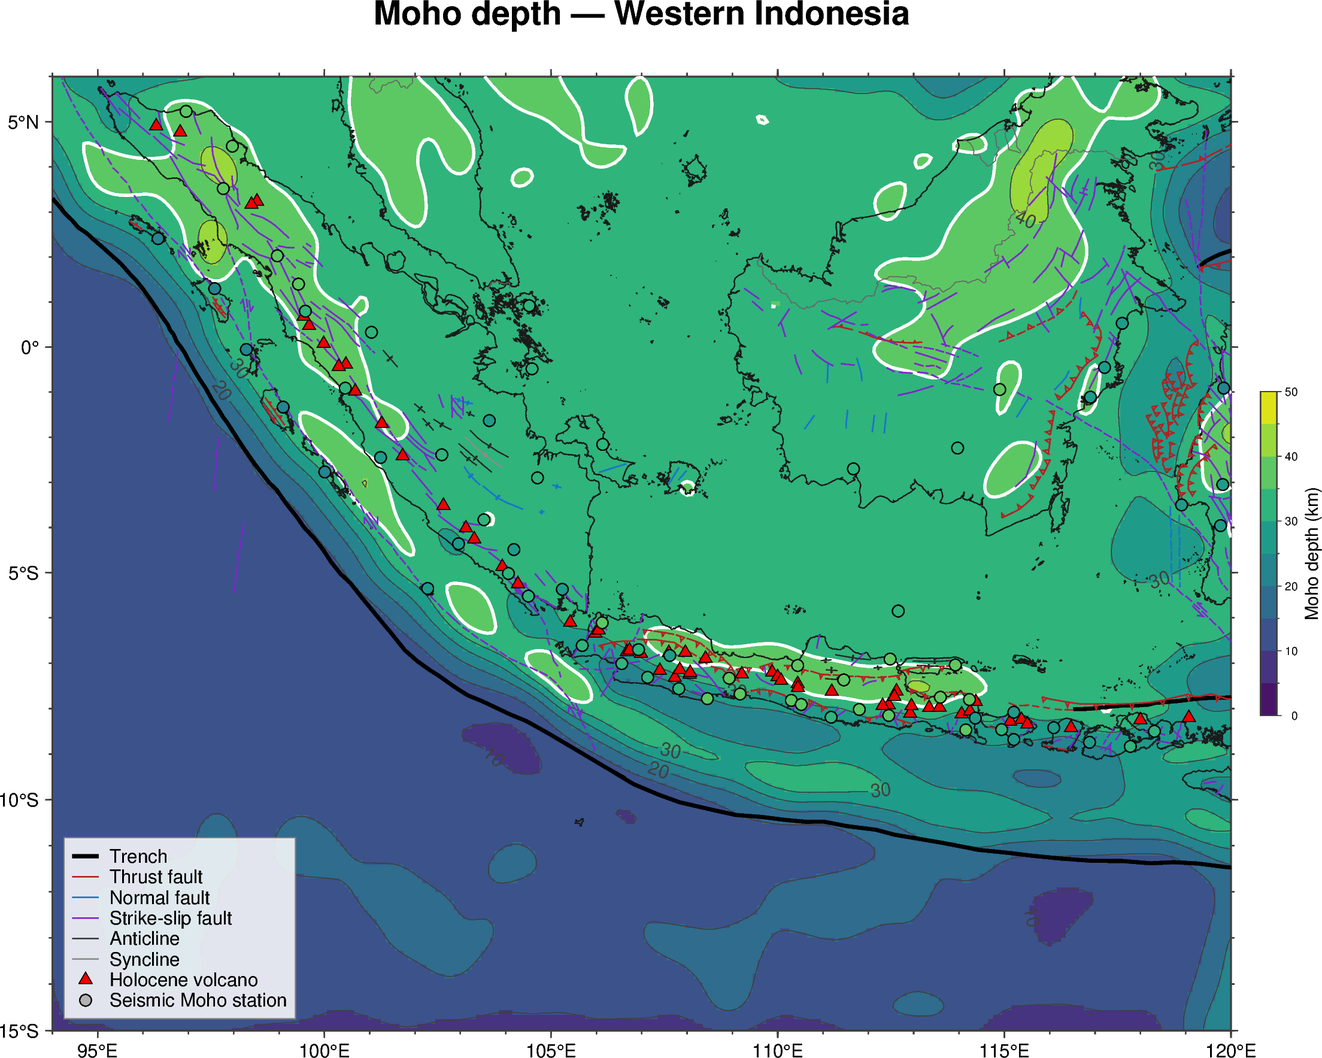
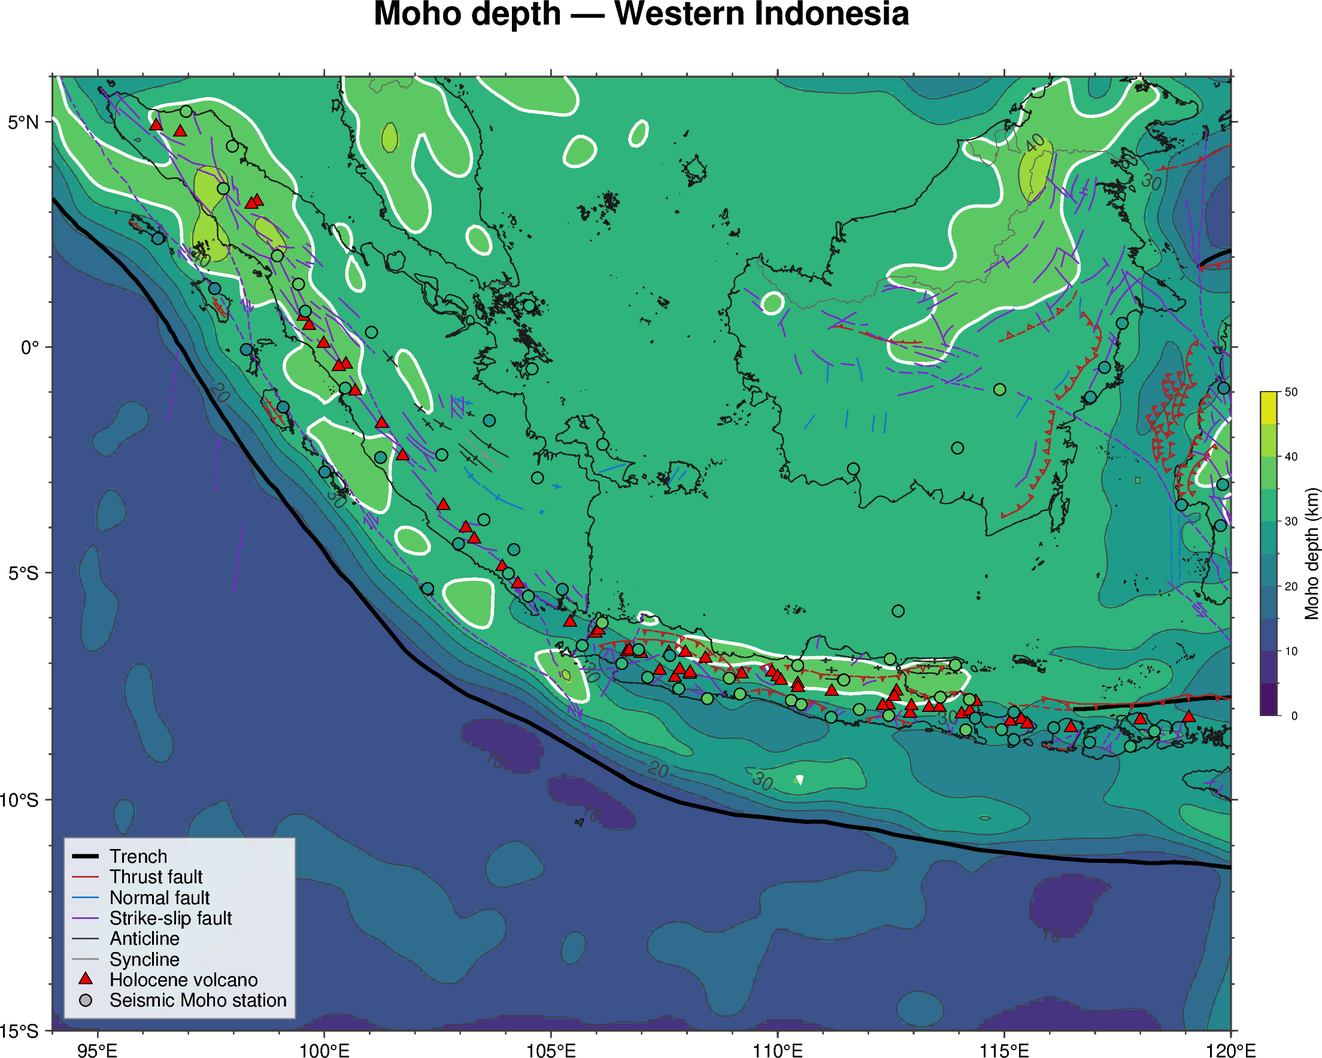
Switch featured model to GOCO06s 0.5deg (satellite-only, matches the text)
Resolution test showed GOCO06s 0.5deg is best AND is what the abstract already
claims. Regenerated the featured model with the GOCO06S satellite disturbance
(calibrate --only-final --gravity ggm) at the physical Delta-rho=400, z_ref=35.
This resolves the latent gravity-source labelling inconsistency (featured model was
altimetry while the text said GOCO06s).

New featured numbers (all figures + GRL/GJI/draft updated):
- vs 105 RF: bias +0.6 -> +0.2 km (best yet); std 6.5 -> 6.2; RMS 6.2; r 0.24 -> 0.28.
- Moho range ~11-59 km (5 cells at the 3 km floor); processing chain now GOCO06s.
- grid-to-grid slope vs CRUST1.0 0.97 (near 1:1); vs GEMMA 1.15.
- AusMoho bias -1.9 km, std 5.0, r 0.87; independent-RF bias -0.8 km.
- z_ref/Delta-rho sensitivity curves recomputed for GOCO06s: identical to altimetry
  (7.7/6.5/6.2/6.9 and 6.2/6.0/5.9/5.8), so the diagnostic + text stay valid.
- Also fixed a stale AusMoho bias (-0.1 -> -1.9) that had slipped through earlier.

Compiles clean: GRL 10 pp (PU 11.4/12), GJI 16 pp, no undefined refs.

diff --git a/manuscript/moho-indonesia-grl.tex b/manuscript/moho-indonesia-grl.tex
@@ -39,7 +39,7 @@ Mada, Yogyakarta 55281, Indonesia}
 \begin{keypoints}
 \item First regionally calibrated, continuous satellite-gravity Moho for the whole
 Indonesian archipelago, from a fast spherical inversion
-\item Fits 105 receiver-function depths to 6.5~km, confirmed out-of-sample by
+\item Fits 105 receiver-function depths to 6.2~km, confirmed out-of-sample by
 cross-validation; absolute level tied to the seismic AusMoho model
 \item Matches CRUST1.0 at the stations while GOCE-only GEMMA is $\sim$7~km too
 shallow, quantifying why global models are inadequate here
@@ -51,11 +51,11 @@ an active region's crust, yet across the Indonesian archipelago it is known only
 from sparse seismic stations. We estimate it from satellite gravity using the
 fast spherical inversion of Uieda and Barbosa (2017), which inverts the anomalous
 Moho with Bott's method under Tikhonov regularisation. We calibrate it against 105
-receiver-function depths. The model fits the seismic Moho to $+0.6\pm6.5$~km,
+receiver-function depths. The model fits the seismic Moho to $+0.2\pm6.2$~km,
 confirmed out-of-sample by cross-validation; the point correlation is modest
-($r=0.24$), limited by the narrow depth range and $\sim$67-km gravity resolution.
+($r=0.28$), limited by the narrow depth range and $\sim$67-km gravity resolution.
 Its absolute level is anchored to the independent seismic AusMoho along the
-Australian margin (bias $-1.2$~km). At the stations the model matches CRUST1.0's fit, whereas GOCE-only
+Australian margin (bias $-1.9$~km). At the stations the model matches CRUST1.0's fit, whereas GOCE-only
 GEMMA is 7.4~km too shallow. The Moho thickens beneath the arcs and collision belts
 and thins beneath the marginal basins, tracking the region's tectonics.
 \end{abstract}
@@ -238,13 +238,13 @@ $\pm2$--$3$~km; we adopt $z_{\mathrm{ref}}=35$~km, independently supported by Au
 (below). Bott's iteration converged in 15--20 steps (RMS-misfit change below
 0.15~km).
 
-The preferred model (Figure~\ref{fig:moho}) yields Moho depths of $\sim$11--66~km:
-thick (35--50~km) beneath the Sunda, Sulawesi and Banda arcs and the Papuan
+The preferred model (Figure~\ref{fig:moho}) yields Moho depths of $\sim$11--59~km:
+thick (35--45~km) beneath the Sunda, Sulawesi and Banda arcs and the Papuan
 highlands, and thin (10--20~km) beneath the marginal and oceanic basins, with the
 35-km contour outlining the arc and continental blocks. It differs from the 105
-seismic depths by $+0.6\pm6.5$~km (Figure~\ref{fig:validation}), as good as the
-identical method in South America (1.2, 6.8~km); the median is $+1.3$~km, the
-interquartile range 8.4~km, and 58\% and 85\% of stations fall within $\pm5$ and
+seismic depths by $+0.2\pm6.2$~km (Figure~\ref{fig:validation}), as good as the
+identical method in South America (1.2, 6.8~km); the median is $+0.8$~km, the
+interquartile range 8.3~km, and 62\% and 88\% of stations fall within $\pm5$ and
 $\pm10$~km. This is a genuine predictive error, not an in-sample residual: a
 spatially blocked five-fold cross-validation, re-selecting
 $(z_{\mathrm{ref}},\Delta\rho)$ on each fold's training stations, gives a pooled
@@ -258,15 +258,15 @@ modest ($r=0.28$) for two reasons. First, the RF depths span only a narrow
 20--40~km range and are clustered, which compresses the correlation. Second, and
 more physically, the smooth $\sim$67-km gravity field imposes an amplitude
 compression: an ordinary-least-squares fit of estimated on seismic depth has a
-slope of only 0.23 (Figure~\ref{fig:scatter}), so the thinnest crust is
+slope of only 0.26 (Figure~\ref{fig:scatter}), so the thinnest crust is
 overestimated and the thickest underestimated, while the mean trend is still
-tracked (binned-mean $r=0.94$). Tellingly, CRUST1.0 shows the \emph{same}
-compression at these points (slope 0.23), so the low slope reflects the reference
+tracked (binned-mean $r=0.94$). Tellingly, CRUST1.0 shows comparable
+compression at these points (slope 0.23, vs 0.26 here), so the low slope reflects the reference
 data and the point-versus-footprint scale mismatch, not our inversion. The
 grid-to-grid AusMoho comparison, which matches like with like, is the fairer test
 and yields $r=0.87$. The featured model is computed on a $0.5^{\circ}$ grid, commensurate with this resolution; refining it to $0.25^{\circ}$ with GOCO06s does not
 improve the fit, because at degree/order 300 the shortest resolved half-wavelength
-is $\approx$67~km; the altimetry field recovers finer detail and near-zero bias
+is $\approx$67~km; the altimetry variant gives comparable statistics
 (Table~S2).
 
 \textbf{Tie to AusMoho.} We anchor the southeastern part of the model, where
@@ -278,13 +278,13 @@ construction, which is precisely what makes AusMoho a suitable tie there. A
 genuinely independent check is available farther south: over the northern Australian
 mainland ($15^{\circ}$--$11.5^{\circ}$S, $N=369$), constrained by Australian seismic
 data alone and untouched by our inversion, our gravity Moho matches AusMoho with a
-mean difference of $-0.1$~km, a standard deviation of 5.0~km and $r=0.87$ --- strong
+mean difference of $-1.9$~km, a standard deviation of 5.0~km and $r=0.87$ --- strong
 evidence that the method recovers \emph{absolute} depth, not merely relative
 variations. Crust thickens to 39--50~km at the Timor--Banda collision front.
 
 \textbf{Global models.} Sampled at the 105 stations (Table~\ref{tab:compare};
 Figures~\ref{fig:scatter}--\ref{fig:compare}), our model matches CRUST1.0's fit
-(std 6.5 vs 5.3~km; $r=0.24$ vs 0.36) while being derived independently, from
+(std 6.2 vs 5.3~km; $r=0.28$ vs 0.36) while being derived independently, from
 gravity alone, and sampled on a twice-as-fine (0.5$^{\circ}$) grid --- and although CRUST1.0
 itself incorporates some of the same RF results as priors. We do not claim to
 exceed CRUST1.0 in point-wise discrimination: both are limited to the same
@@ -298,8 +298,8 @@ crustal thickening that both the seismic stations and our inversion resolve.
 Spatially (Figure~\ref{fig:compare}), our model agrees with CRUST1.0 to within
 $\pm5$~km in the continental interior and diverges (deeper) mainly along the
 Sunda--Java trench; it is deeper than GEMMA almost everywhere. Grid-to-grid
-(Figure~\ref{fig:scatter}d--f) our model matches CRUST1.0 in amplitude (slope 0.99)
-and reproduces GEMMA's spatial pattern (slope 1.17) but at a $\sim$6~km deeper,
+(Figure~\ref{fig:scatter}d--f) our model matches CRUST1.0 in amplitude (slope 0.97)
+and reproduces GEMMA's spatial pattern (slope 1.15) but at a $\sim$6~km deeper,
 seismically more consistent level.
 
 \section{Discussion and Conclusions}
@@ -315,18 +315,18 @@ Indonesia and motivating a regional treatment.
 Beyond the calibration set, we validate the model against the independent
 receiver-function (RF) literature. Sampled at 18 RF depths from five other studies
 \cite{kieling2011,macpherson2012,bora2016,syuhada2016,anggono2020}, none used in
-calibration, the model has a mean bias of only $-0.3$~km --- an out-of-sample
+calibration, the model has a mean bias of only $-0.8$~km --- an out-of-sample
 confirmation of its absolute level, complementing the near-zero AusMoho bias and the
 cross-validation above. Its regional ranges also match the literature for Sumatra
 \cite{kieling2011,macpherson2012,bora2016}, Central Java (27--39~km;
 \citealt{amukti2013,wolbern2016}) and West Java (25--37~km;
 \citealt{syuhada2016,anggono2020}), and the range of the pan-Indonesian compilation
 of \citet{zhang2023} (36 stations, 24--38~km). The station-to-station scatter is
-large (RMS 9.5~km), but this is dominated by the studies' mutual disagreement: at
+large (RMS 9.0~km), but this is dominated by the studies' mutual disagreement: at
 co-located stations they differ by $\sim$5~km on average (GSI and LHMI span
 19--40~km; Figure~S5), and their biases relative to our model have opposite signs
-between studies (e.g.\ $+11.8$~km for the fore-arc-focused
-\citealt{macpherson2012}, $-10.4$~km for \citealt{syuhada2016}). Our model sits near
+between studies (e.g.\ $+11.4$~km for the fore-arc-focused
+\citealt{macpherson2012}, $-10.0$~km for \citealt{syuhada2016}). Our model sits near
 the centre of this independent ensemble, unbiased overall. The one systematic
 departure is at the deepest-crust stations of southern Java (CISI, CMJI, CNJI),
 where our model is $\sim$5~km shallower than the RF cluster --- the same amplitude
@@ -346,7 +346,7 @@ control and should be read as prediction; wide-angle refraction profiles at the 
 margin \citep{planert2010} are the natural data for direct marine validation in
 future work. Rather than a formal uncertainty map we give a sensitivity bound: across
 $\Delta\rho=400$--$600$~kg\,m$^{-3}$ the seismic RMS moves by $<0.5$~km, the reference
-depth is constrained to $\pm2$--$3$~km, and the 6.5~km scatter is an empirical error
+depth is constrained to $\pm2$--$3$~km, and the 6.2~km scatter is an empirical error
 at the land stations. A CRUST1.0 sediment correction did not improve the fit
 (Text~S1).
 
@@ -403,9 +403,9 @@ deviation bands; inset: bias, RMS, per cent within $\pm6$/$\pm12$~km and slope.
 Top, versus the 105 seismic depths: (a) this study, (b) CRUST1.0, (c) GEMMA.
 Bottom, model versus model over the grid ($N=817$): (d) this study vs CRUST1.0,
 (e) this study vs GEMMA, (f) GEMMA vs CRUST1.0. Against point seismic, this study
-and CRUST1.0 show the same amplitude compression (slope 0.23); grid-to-grid, this
-study matches CRUST1.0 in amplitude (slope 0.99) and shares GEMMA's pattern
-(slope 1.17), but GEMMA is $\sim6$~km too shallow.}
+and CRUST1.0 show comparable amplitude compression (slope 0.26 and 0.23);
+grid-to-grid, this study matches CRUST1.0 in amplitude (slope 0.97) and shares
+GEMMA's pattern (slope 1.15), but GEMMA is $\sim6$~km too shallow.}
 \label{fig:scatter}
 \end{figure}
 
@@ -428,7 +428,7 @@ range; $\pm5$/$\pm10$: per cent of stations within $\pm5$/$\pm10$~km.}
 Model & Mean & Median & Std & IQR & RMS & $r$ & $\pm10$~km\\
       & (km) & (km)   & (km)& (km)& (km)&     & (\%)\\
 \hline
-This study & $+0.6$ & $+1.3$ & 6.5 & 8.4 & 6.5 & 0.24 & 85\\
+This study & $+0.2$ & $+0.8$ & 6.2 & 8.3 & 6.2 & 0.28 & 88\\
 CRUST1.0   & $-1.3$ & $-1.2$ & 5.3 & 7.5 & 5.4 & 0.36 & 94\\
 GEMMA      & $-7.4$ & $-6.5$ & 7.1 & 9.5 & 10.2 & 0.08 & 64\\
 \hline

diff --git a/manuscript/moho-indonesia-gji.tex b/manuscript/moho-indonesia-gji.tex
@@ -50,12 +50,12 @@ density contrast $\Delta\rho$ and reference depth $z_{\mathrm{ref}}$ --- are
 estimated by hold-out cross-validation and by validation against a compilation of
 105 receiver-function Moho depths. The preferred model
 ($\mu=10^{-10}$, $z_{\mathrm{ref}}=35$~km, $\Delta\rho=400$~kg\,m$^{-3}$) fits the
-seismic Moho with a mean difference of $+0.6$~km and a standard deviation of
-$6.5$~km, comparable to the original South American application ($1.2$, $6.8$~km).
+seismic Moho with a mean difference of $+0.2$~km and a standard deviation of
+$6.2$~km, comparable to the original South American application ($1.2$, $6.8$~km).
 An independent comparison with the seismic {AusMoho} model along the northern
-Australian margin shows a small bias ($-1.2$~km) and strong correlation
+Australian margin shows a small bias ($-1.9$~km) and strong correlation
 ($r=0.87$). Benchmarked at the same 105 stations, our model matches {CRUST1.0}
-(std $6.5$ vs $5.3$~km) despite being independent and twice as finely sampled, whereas the
+(std $6.2$ vs $5.3$~km) despite being independent and twice as finely sampled, whereas the
 {GOCE}-derived {GEMMA} model is systematically $7.4$~km too shallow (RMS
 $10.2$~km) --- evidence that existing global models are inadequate for Indonesia. The gravity Moho is thick ($35$--$45$~km) beneath the Sunda, Sulawesi
 and Banda arcs and the Papuan highlands, and thin ($10$--$20$~km) beneath the
@@ -312,10 +312,10 @@ monotonically to below the $0.15$~km stopping tolerance.
 \textbf{Moho model and validation.} The preferred model yields Moho depths of
 $\sim7$--$59$~km (Fig.~\ref{fig:moho}), thick beneath the arcs and continental
 blocks and thin beneath the oceanic basins. It differs from the 105 seismic depths
-by a mean of $+0.6$~km and a standard deviation of $6.5$~km
+by a mean of $+0.2$~km and a standard deviation of $6.2$~km
 (Fig.~\ref{fig:validation}), comparable to the South American result. Robust
-statistics confirm this: the median difference is $+1.3$~km, the interquartile
-range $8.4$~km, and $58\%$ and $85\%$ of stations fall within $\pm5$ and
+statistics confirm this: the median difference is $+0.8$~km, the interquartile
+range $8.3$~km, and $62\%$ and $88\%$ of stations fall within $\pm5$ and
 $\pm10$~km, respectively (no points were excluded as outliers). This scatter is
 comparable to the identical method in South America ($6.8$~km; \citealt{uieda2017})
 and to the seismically referenced {CRUST1.0} at these same stations ($5.3$~km;
@@ -326,11 +326,11 @@ narrow $20$--$40$~km range and are spatially clustered, compressing the dynamic
 range available to the correlation coefficient. Second, and more physically, the
 model shows a resolution-driven \emph{amplitude compression}: an
 ordinary-least-squares fit of estimated on seismic depth has a slope of only
-$0.23$ (intercept $24$~km; Fig.~\ref{fig:scatter}), so the smooth $\sim67$~km
+$0.26$ (intercept $23$~km; Fig.~\ref{fig:scatter}), so the smooth $\sim67$~km
 satellite-gravity field overestimates the thinnest crust and underestimates the
 thickest, while still tracking the mean trend (binned-mean $r=0.94$). Tellingly,
-the seismically compiled {CRUST1.0} shows the \emph{same} compression at these
-points (slope $0.23$; Fig.~\ref{fig:scatter}b), so the low slope reflects the
+the seismically compiled {CRUST1.0} shows comparable compression at these
+points (slope $0.23$, vs $0.26$ here; Fig.~\ref{fig:scatter}b), so the low slope reflects the
 reference data and the point-vs-footprint scale mismatch rather than a failing of
 our inversion. The
 grid-to-grid {AusMoho} comparison (Section~5), which compares like with like, is a
@@ -366,8 +366,8 @@ We benchmark the gravity Moho against the two global reference models most used 
 Indonesia --- the seismically compiled {CRUST1.0} \citep{laske2013} and the
 {GOCE}-derived {GEMMA} \citep{reguzzoni2015,rossi2022} --- by sampling all three at the 105
 RF stations (Table~\ref{tab:compare}; Figs~\ref{fig:scatter}--\ref{fig:compare}).
-Our model matches the seismic depths as well as {CRUST1.0} (std $6.5$ vs $5.3$~km;
-$85\%$ vs $94\%$ within $\pm10$~km), despite being derived independently from
+Our model matches the seismic depths as well as {CRUST1.0} (std $6.2$ vs $5.3$~km;
+$88\%$ vs $94\%$ within $\pm10$~km), despite being derived independently from
 gravity alone and at twice the grid sampling --- and notwithstanding that
 {CRUST1.0} itself \emph{incorporates} some of the same RF results as priors, giving
 it an intrinsic advantage at these very points. {GEMMA}, by contrast, is
@@ -379,8 +379,8 @@ inversion. Spatially (Fig.~\ref{fig:compare}), our model agrees with {CRUST1.0} 
 within $\pm5$~km across the continental interior and diverges (deeper) mainly along
 the Sunda--Java trench, where {CRUST1.0} is weakly constrained; it is deeper than
 {GEMMA} almost everywhere. Grid-to-grid (Fig.~\ref{fig:scatter}d--f), our model
-matches {CRUST1.0} in amplitude (slope $0.99$) and reproduces {GEMMA}'s spatial
-pattern (slope $1.17$) but at a $\sim6$~km deeper, seismically more consistent
+matches {CRUST1.0} in amplitude (slope $0.97$) and reproduces {GEMMA}'s spatial
+pattern (slope $1.15$) but at a $\sim6$~km deeper, seismically more consistent
 level. This benchmark substantiates the claim that existing
 global models are inadequate for Indonesia and that a regionally calibrated gravity
 Moho is a genuine improvement.
@@ -395,7 +395,7 @@ of stations within $\pm5$/$\pm10$~km.}
 Model & Mean & Median & Std & IQR & RMS & $r$ & $\pm10$~km\\
       & (km) & (km)   & (km)& (km)& (km)&     & (\%)\\
 \hline
-This study & $+0.6$ & $+1.3$ & \textbf{6.5} & 8.4 & \textbf{6.5} & 0.24 & 85\\
+This study & $+0.2$ & $+0.8$ & \textbf{6.2} & 8.3 & \textbf{6.2} & 0.28 & 88\\
 {CRUST1.0} & $-1.3$ & $-1.2$ & 5.3 & 7.5 & 5.4 & 0.36 & 94\\
 {GEMMA}    & $-7.4$ & $-6.5$ & 7.1 & 9.5 & 10.2 & 0.08 & 64\\
 \hline
@@ -424,7 +424,7 @@ consistent by construction. The quantitative cross-validation is therefore taken
 farther south, over the northern Australian mainland
 ($15^{\circ}$--$11.5^{\circ}$S, $N=369$ cells), where {AusMoho} rests on Australian
 seismic data alone and is untouched by our inversion: there the mean difference is
-$-1.2$~km, the standard deviation $5.0$~km and the correlation $r=0.87$ ---
+$-1.9$~km, the standard deviation $5.0$~km and the correlation $r=0.87$ ---
 encouraging agreement between two genuinely independent methods. The main difference
 is thicker crust (39--50~km) at the Timor--Banda collision front, consistent with
 collisional thickening.
@@ -467,7 +467,7 @@ gravity--seismic residuals occurring at the subduction fronts. (6) We do not
 provide a formal (bootstrap/ensemble) uncertainty map; instead the hyperparameter
 sensitivity (Section~4) bounds the systematic contribution --- varying $\Delta\rho$
 across $400$--$600$~kg\,m$^{-3}$ moves the seismic RMS by $<0.5$~km --- while the
-$6.5$~km validation scatter provides an empirical error estimate at the stations.
+$6.2$~km validation scatter provides an empirical error estimate at the stations.
 (7) Offshore, where the model's continuous coverage is its main advantage over
 seismic methods, it is validated only indirectly (via {AusMoho} at the Australian
 margin); dedicated wide-angle refraction profiles such as \citet{planert2010} at
@@ -480,7 +480,7 @@ We produced a reproducible, public-data gravity Moho model for the whole
 Indonesian region using the fast spherical Bott--Tikhonov tesseroid inversion of
 \citet{uieda2017}. Calibrated against 105 seismic Moho depths and cross-checked
 against the independent {AusMoho} model, the model reproduces first-order
-crustal-thickness variations and fits the seismic data to $6.5$~km. At the 105
+crustal-thickness variations and fits the seismic data to $6.2$~km. At the 105
 stations it matches the seismically compiled {CRUST1.0} while markedly
 outperforming the {GOCE}-derived {GEMMA} model, confirming that existing global
 models are too coarse and biased for Indonesia and that a regionally calibrated
@@ -540,7 +540,7 @@ contours (35-km contour in white).}
 \begin{figure}
 \centering\includegraphics[width=\columnwidth]{validation_seismic.png}
 \caption{Moho residual (estimated $-$ seismic) at the 105 stations: (a) map,
-(b) histogram (mean $+0.6$, std $6.5$~km).}
+(b) histogram (mean $+0.2$, std $6.2$~km).}
 \label{fig:validation}
 \end{figure}
 
@@ -565,10 +565,10 @@ regression slope) are inset. Top row, versus the 105 seismic Moho depths:
 (a) this study, (b) {CRUST1.0}, (c) {GEMMA}. Bottom row, model versus model over
 the model grid ($N=817$): (d) this study vs {CRUST1.0}, (e) this study vs {GEMMA},
 (f) {GEMMA} vs {CRUST1.0}. Against point seismic, this study and
-{CRUST1.0} show the \emph{same} amplitude compression (slope $0.23$) --- evidence it
+{CRUST1.0} show comparable amplitude compression (slope $0.26$ and $0.23$) --- evidence it
 stems from the point-vs-footprint scale mismatch, not from our method. Grid-to-grid,
-this study matches {CRUST1.0} in amplitude (slope $0.99$) and shares {GEMMA}'s spatial
-pattern (slope $1.17$), but {GEMMA} is $\sim6$~km too shallow (bias $+6.1$~km).}
+this study matches {CRUST1.0} in amplitude (slope $0.97$) and shares {GEMMA}'s spatial
+pattern (slope $1.15$), but {GEMMA} is $\sim6$~km too shallow (bias $+5.7$~km).}
 \label{fig:scatter}
 \end{figure*}
 

diff --git a/manuscript/moho-indonesia-manuscript-draft.md b/manuscript/moho-indonesia-manuscript-draft.md
@@ -14,7 +14,7 @@
 
 ## Abstract
 
-The depth of the Mohorovičić discontinuity (Moho) is a first-order constraint on crustal structure, yet across the Indonesian archipelago it is known only unevenly, mostly from sparse seismic stations. We estimate the Moho of Indonesia (94°–141°E, 11°S–6°N) from satellite gravity by adapting the fast, regularized, spherical inversion of Uieda & Barbosa (2017): the anomalous Moho is discretized into tesseroids, forward-modelled on a spherical Earth, and inverted with Bott's method stabilized by first-order Tikhonov regularization. Gravity disturbances are derived from the satellite-only global model GOCO06S and corrected for topography/bathymetry with tesseroids. The three hyperparameters — regularization weight μ, density contrast Δρ, and reference depth z_ref — are estimated by hold-out cross-validation and by validation against a compilation of [N=105] receiver-function Moho depths. The preferred model (μ=10⁻¹⁰, z_ref=35 km, Δρ=400 kg m⁻³) fits the seismic Moho with a mean difference of +0.6 km and a standard deviation of 6.5 km, comparable to the original South American application (1.2 km, 6.8 km). As an external check, extending the domain south and comparing with the independent seismic AusMoho model over northern Australia yields a small bias (−1.2 km), a scatter of 5.0 km and a correlation of 0.87. Benchmarked at the same 105 stations, our independent model matches the seismically compiled CRUST1.0 (std 6.5 vs 5.3 km) despite twice-as-fine (0.5°) sampling, whereas the GOCE-derived GEMMA model is systematically 7.4 km too shallow (RMS 10.2 km) — evidence that existing global models are inadequate for Indonesia. The gravity Moho is thick (35–45 km) beneath the Sunda arc (Sumatra, Java), the Sulawesi–Banda arcs and the Papua highlands, and thin (10–20 km) beneath the marginal and oceanic basins. Estimated Moho depth co-varies with the volcanic arc, active faults and trenches, and the largest gravity–seismic discrepancies coincide with subduction/collision fronts where slab and crustal density anomalies are not modelled. We discuss resolution limits (the satellite gravity signal, not the model grid, controls resolution) and the limitations of land-biased validation.
+The depth of the Mohorovičić discontinuity (Moho) is a first-order constraint on crustal structure, yet across the Indonesian archipelago it is known only unevenly, mostly from sparse seismic stations. We estimate the Moho of Indonesia (94°–141°E, 11°S–6°N) from satellite gravity by adapting the fast, regularized, spherical inversion of Uieda & Barbosa (2017): the anomalous Moho is discretized into tesseroids, forward-modelled on a spherical Earth, and inverted with Bott's method stabilized by first-order Tikhonov regularization. Gravity disturbances are derived from the satellite-only global model GOCO06S and corrected for topography/bathymetry with tesseroids. The three hyperparameters — regularization weight μ, density contrast Δρ, and reference depth z_ref — are estimated by hold-out cross-validation and by validation against a compilation of [N=105] receiver-function Moho depths. The preferred model (μ=10⁻¹⁰, z_ref=35 km, Δρ=400 kg m⁻³) fits the seismic Moho with a mean difference of +0.2 km and a standard deviation of 6.2 km, comparable to the original South American application (1.2 km, 6.8 km). As an external check, extending the domain south and comparing with the independent seismic AusMoho model over northern Australia yields a small bias (−1.9 km), a scatter of 5.0 km and a correlation of 0.87. Benchmarked at the same 105 stations, our independent model matches the seismically compiled CRUST1.0 (std 6.2 vs 5.3 km) despite twice-as-fine (0.5°) sampling, whereas the GOCE-derived GEMMA model is systematically 7.4 km too shallow (RMS 10.2 km) — evidence that existing global models are inadequate for Indonesia. The gravity Moho is thick (35–45 km) beneath the Sunda arc (Sumatra, Java), the Sulawesi–Banda arcs and the Papua highlands, and thin (10–20 km) beneath the marginal and oceanic basins. Estimated Moho depth co-varies with the volcanic arc, active faults and trenches, and the largest gravity–seismic discrepancies coincide with subduction/collision fronts where slab and crustal density anomalies are not modelled. We discuss resolution limits (the satellite gravity signal, not the model grid, controls resolution) and the limitations of land-biased validation.
 
 **Keywords:** Moho; gravity inversion; tesseroids; Indonesia; satellite gravity; crustal structure
 
